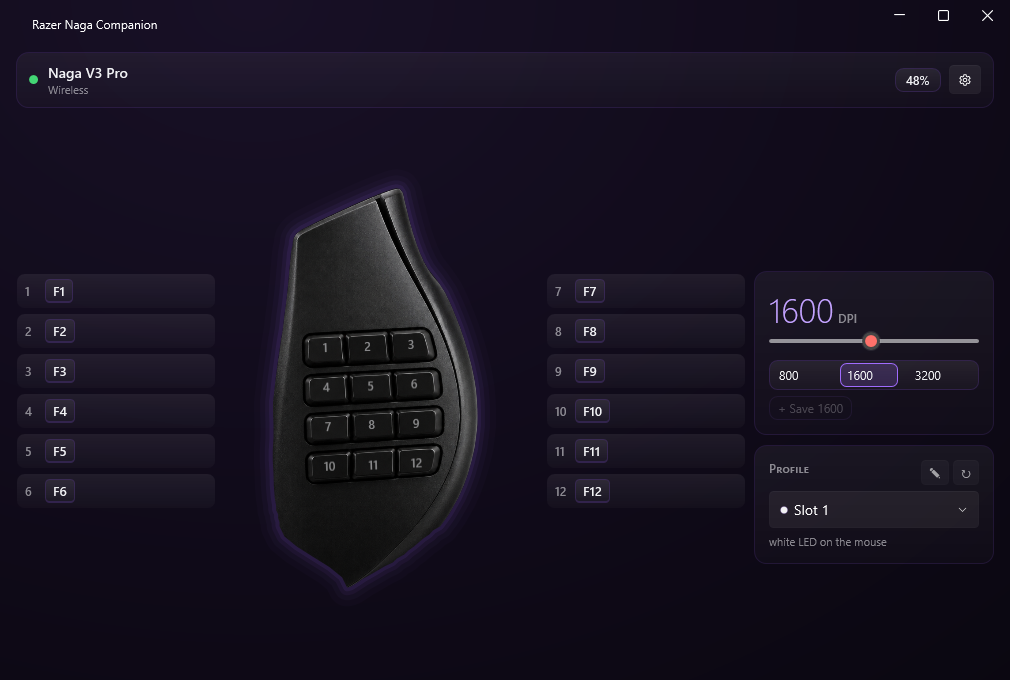
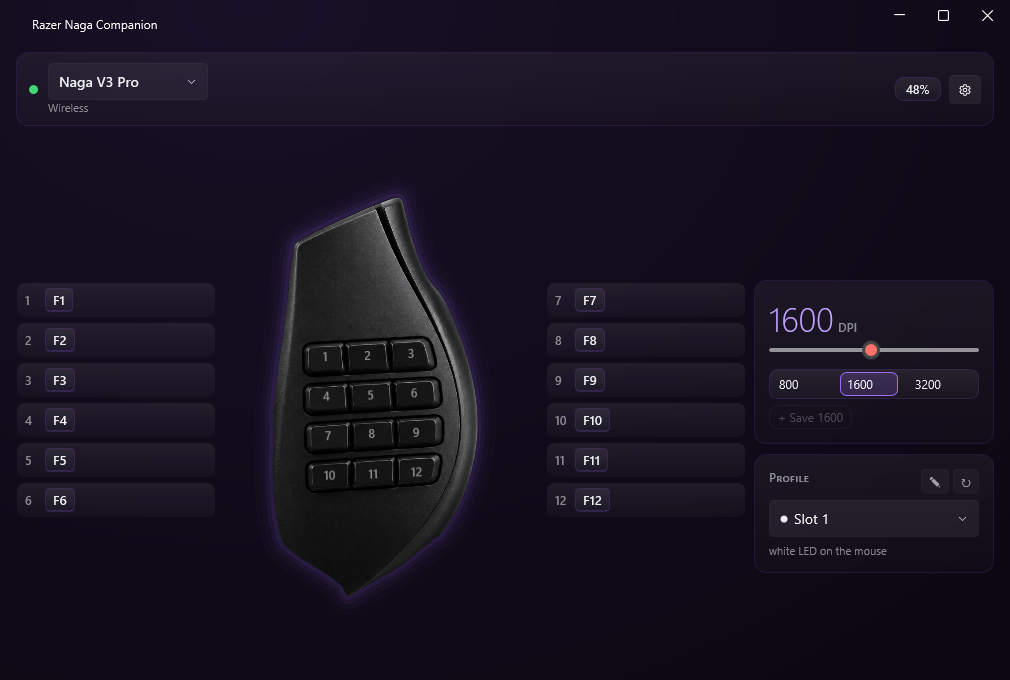
docs: mouse selector, per-device state isolation, regenerated screenshots
README gains the selector and per-mouse profile names; architecture.md gains
the connection layering (IControlCollection seam, ConnectionPolicy,
MouseConnection), the preference-ordered scan, battery-path-only reselect,
connection identity (id within an operation, model across time), the
reachability probe, DeviceScopedState and the firmware's 1-byte uncreated-slot
stub. CLAUDE.md moves the V3 acceptance follow-ups to Shipped as one root
cause and logs create-profile UI as unscheduled.

All five dashboard screenshots regenerated through the UI probe: the header
now renders a mouse ComboBox where the model label was. popup.png re-rendered
byte-identical, so the popup is unaffected.

diff --git a/docs/architecture.md b/docs/architecture.md
@@ -120,13 +120,12 @@ Zero-access `CreateFile` + `HidD_Set/GetFeature`.
   battery/DPI/writes + the tid probe, and `FastReadAsync` for idempotent onboard-memory READS
   (button/profile queries): early-poll doubling ladder 50→400 ms, ready = completed status +
   class/cmd echo — the grid sweep's 12 reads land in ~a second instead of ~5 s.
-- `EnsureConnectedAsync` picks the **live** collection (the one whose
-  `GetMaxFeatureReportLength()==91`, **not** usage page 0xFF00 — none exposed) by trying candidates
-  in `RazerProtocol.ScanPids` order (every supported model's wired PID before any wireless one; V3
-  before V2 within a link), and **verifying each actually answers a battery query** before
-  committing: the dock's wireless receiver stays enumerated when the mouse switches to wired, so
-  first-enumerated alone would lock onto a dead collection (this was the wired/USB-C "no response"
-  bug, `932398e`).
+- Connection selection lives one layer down since 2026-08-19 — `RazerDevice` delegates it to
+  `MouseConnection` (next section). The rule it enforces is unchanged: pick the collection whose
+  `GetMaxFeatureReportLength()==91` (**not** usage page 0xFF00 — none exposed), and **verify each
+  candidate actually answers a battery query** before committing, because the dock's wireless
+  receiver stays enumerated when the mouse switches to wired, so first-enumerated alone would lock
+  onto a dead collection (the wired/USB-C "no response" bug, `932398e`).
 - A read returning null drops the handle so the next poll re-selects (self-heals on plug/unplug).
   Explicit refreshes (`RefreshNowAsync`) additionally call **`Reset()`** so they re-select
   *immediately* — the null-drop self-heal is too slow on a wired plug, where the stale wireless
@@ -137,13 +136,158 @@ Zero-access `CreateFile` + `HidD_Set/GetFeature`.
   `TransactionIdProbeSet`) and cached; every battery/DPI call gates on `tid != 0`, returning
   Absent/null silently until it resolves.
 
+## Connection selection & per-device state (2026-08-19)
+
+Two mice are supported, so "which mouse am I talking to" became a real question. Spec:
+`docs/superpowers/specs/2026-08-19-naga-mouse-selector-design.md`. The whole pass exists because
+acceptance testing found three defects (sticky selection, false "Not applied", a red "Synapse
+action (0x02)") that turned out to be **one** defect: state cached for one mouse survived a change
+of the mouse underneath.
+
+### The layering
+
+Win32 used to sit in the same method as the selection logic, so none of the selection logic could
+be tested. It is now three files, top to bottom:
+
+- **`IControlCollection` / `IControlCollectionSource`** — the ONLY place Win32 appears in the
+  connection path. `CreateFile`, `HidD_SetFeature`, `HidD_GetFeature`, and the HidSharp enumeration
+  that finds 91-byte feature collections; nothing else. `IsOpen` goes false the moment a feature
+  call fails, and every exchange (plus the tid probe loop) checks it — the old code got this from
+  nulling a handle, and losing it would have kept calling into a dead collection.
+  `HidControlCollection` is the real implementation; tests substitute a fake source.
+  **This is what shrank hard rule 6's transport exemption**: it now covers only the two Win32
+  wrappers and the WPF windows, not the selection logic above them. (Product-owner decision,
+  2026-08-19, taking a reviewer's recommendation over the session's advice to defer.)
+- **`ConnectionPolicy.Decide`** — the reselect rule as a pure function of four values, no handles:
+  `KeepLive` / `ProbePreferred` / `FullScan`.
+- **`MouseConnection`** — the state machine: preference order, adoption, rollback, disposing
+  exactly the losing collection, and `ConnectionId`. Protocol stays out of it; the caller supplies
+  a `Verify` delegate that resolves a transaction id on a candidate and confirms it answers.
+
+### Preference-ordered scan
+
+`AppSettings.PreferredMouse` holds a display name (`null` = scan order, and `SupportedMice` already
+puts the V3 first, so "default to the V3" needs no special case). `RazerProtocol.ScanPidsFor(name)`
+builds the order: preferred model wired, preferred model wireless, then the other models' wired
+PIDs, then their wireless ones. **Wired-before-wireless still holds within each model** — a cabled
+mouse must beat a still-plugged receiver that can no longer reach it. With no preference it returns
+`ScanPids` unchanged, byte for byte.
+
+An unknown name is normalized to `null` at the property setter (`RazerProtocol.NormalizeModelName`)
+so a stale or hand-edited `settings.json` value behaves *exactly* like no preference. Without that
+normalization every battery read would detach and roll back chasing a mouse that cannot exist.
+
+### Reselect rides the battery path only
+
+`MouseConnection.EnsureAsync` takes `reselect`, and **only the battery read passes `true`**. So
+re-evaluation happens on moments the app already has (the poll, the device-change refresh) — no new
+timer, hard rule 1 intact. When it is true and the live handle is already the preferred model, or
+no preference is set, it returns immediately at zero cost; otherwise it probes *only* the preferred
+model and keeps the current connection if that model does not answer. A sleeping preference must
+never cost the user the mouse that is actually awake.
+
+Adoption detaches the live collection from the field before probing, and restores it in a
+`finally` — an exception or a cancellation between the detach and the adoption would otherwise
+leave the app with no connection **and** leak the detached handle.
+
+Every other call (button, DPI, profile) passes `reselect: false`, so **no other call may reselect a
+live handle**. They can still *reconnect a dropped one* — that is existing, wanted self-healing —
+and that residual is precisely why connection identity is needed.
+
+### Connection identity: id within an operation, model across time
+
+`ConnectionId` rises on every adoption, including a reconnect to the same mouse. It exists because
+an unannounced reconnect is invisible otherwise: `DeviceState.Model` is published only by a battery
+read, `BatteryMonitor` keeps reporting the previous model for three consecutive failed reads, and a
+multi-step operation releases the read lock between steps.
+
+The counter-intuitive part, which a review round forced (spec §4.10 points 3-4) — **the two
+identity questions take different answers**:
+
+- **Within one operation** — did the mouse change under this in-flight read, this write's read-back,
+  this grid sweep — compare the **id**. Something moved underneath and the outcome is not
+  attributable. `RefreshProfileAsync`, `ReadGridAsync` and the DPI read all capture an id and
+  discard results whose id no longer matches.
+- **Across time** — is this cached slot, this profile list, this undo snapshot still about the mouse
+  in front of me — compare the **connected MODEL** (`MouseConnection.Model`, deliberately *not*
+  cleared by `Close()` so the question still has an answer after a dropped handle).
+
+Comparing ids across time would red a landed write whenever the user plugs in anything at all:
+every explicit refresh calls `Reset()` first, so any `WM_DEVICECHANGE` — a headset, a hub, a
+resume — bumps the id while the mouse never changed. A same-model reconnect leaves every cached
+value still true; only a hop to the *other* mouse invalidates them.
+
+Two consequences in the code:
+
+- **The button write is atomic.** `BatteryMonitor.WriteButtonVerifiedAsync` reads the active slot,
+  writes, and reads back **inside one `_readLock` acquisition**. Split across three (as it was
+  before), a reselect could land between resolve and write and put one mouse's slot number onto the
+  other — clearing a cache cannot undo that, the slot is already a local. The slot is always read
+  here, never taken from the caller's cache, which forces any pending reconnect to happen *before* a
+  slot is committed to. A failed slot read fails the write outright.
+- **Recovery republishes identity before reloading.** `AppHost.RecoverFromReconnectAsync` runs a
+  lock-waiting battery refresh FIRST so `State.Model` names the mouse now connected, and only then
+  reseeds. The other order files the new mouse's DPI, profiles and profile names under the old
+  model. It is re-entrancy-guarded and coalesces to at most one follow-up pass.
+
+### Reachability probe (the selector's list)
+
+`DiscoverReachableAsync` tries each supported model's PIDs in turn, collects the display names that
+answered a battery query, then re-runs normal selection so the connection ends on the
+preferred/current mouse. It **republishes `State` before returning** (one battery read processed
+inside the same lock acquisition), because that closing reconnect can land on a different mouse than
+`State` names, and `State.Model` is what keys the scoped cache and the profile-name map.
+
+A HID enumeration cannot replace this: the receiver stays enumerated while the mouse is off, so an
+enumeration-built list would offer a sleeping mouse. The user chose accuracy over the ~1 s cost.
+Called on dashboard open and dashboard refresh only — **never polled**.
+
+`RefreshNowWaitingAsync` is `RefreshNowAsync` that *waits* for the read lock instead of skipping
+when busy. Skip-when-busy is right for a timer tick and wrong behind a user's mouse pick, which
+would otherwise report a perfectly reachable mouse as unreachable because a sweep happened to be in
+flight. Both it and discovery are wrapped in `Task.Run` at the call site — an uncontended
+`WaitAsync` completes synchronously, which would run enumeration and `CreateFile` on the UI thread.
+
+### `DeviceScopedState` — the cache that clears itself
+
+`Monitoring/DeviceScopedState.cs` holds everything the app caches about ONE mouse: the last active
+slot, the created-slot inventory, and `SeededModel` (the model the cache was seeded under).
+`Observe(model)` is fed every published model name including `null`; it returns true when the model
+changed, and clears the cache as it does. `AppHost` then supersedes the grid sweep, resets the
+dashboard's profile inventory / DPI reading / chips / undo snapshots, and — if the dashboard is
+open — reseeds probe-free.
+
+The defect it fixes, measured on the V3 Pro (read-only spike, 2026-08-19; the V3 ships with
+`capacity=5 created=[1] active=1`):
+
+| Slot read | Reply |
+| --- | --- |
+| 0 (direct) | `cat=0x02 len=2 [00 45]` |
+| 1 (created) | `cat=0x02 len=2 [00 45]` |
+| 2, 3, 4, 5 (not created) | `cat=0x02 len=1 [00]` |
+
+**The firmware answers an uncreated-slot read with a 1-byte stub rather than an error**, and that
+one stub caused both remaining defects. The user's V2 sits on slot 3; after the connection flipped
+to the V3 mid-session, `_lastActive` still said 3, the V3 has no slot 3, so the write's read-back
+could never match (false "Not applied") and the 1-byte reply fell through
+`CalloutViewModel.DisplayRaw`'s exactly-2-bytes decode into a red "Synapse action (0x02)".
+`DisplayRaw` now renders `0x02` with **fewer than 2** data bytes as a plain "Not set" with
+`Failed` false — strictly fewer: a longer unmodelled `0x02` keeps the "Synapse action" label,
+because calling an assigned button empty invites the user to overwrite it.
+
+Two hypotheses were killed by measurement and are recorded so they are not re-tried: button reads
+are not flaky (36/36 through the production path, median 61 ms), and the verify read does not race
+the commit (20/20 first reads returned the freshly written value).
+
 ## Monitoring (`Monitoring/BatteryMonitor.cs`)
 
 Poll timer + arming state machine; takes `IRazerDevice`; battery poll + DPI/button/profile
 pass-throughs serialize on one `_readLock` (poll skips if busy, the pass-throughs block). The poll
 itself does battery I/O only. `RefreshNowAsync` (manual button, wake, device-change) calls
 `_device.Reset()` first to re-select the active interface; the frequent background poll reuses the
-handle for efficiency.
+handle for efficiency. Since 2026-08-19 it also owns `WriteButtonVerifiedAsync` (the atomic button
+write), `DiscoverMiceAsync`, `RefreshNowWaitingAsync` and the `PreferredMouse` / `ConnectionId` /
+`ConnectedModel` pass-throughs — see "Connection selection & per-device state" above.
 
 ## Button remapping model (Phase B 2026-07-11, reworked v2.3 2026-07-19)
 
@@ -158,9 +302,12 @@ Phase B never-write-user-slots rule once byte-for-byte reads shipped — button-
 - The active slot is readable AND settable (`0x05/0x84`/`0x05/0x04` — the Profile card's
   ↻/dropdown); the mouse's bottom button (LED colour = slot: white/red/green/blue/cyan) remains
   the hardware fallback.
-- Write path is `AppHost.WriteBindingAsync` → `WriteVerifiedAsync` (per-chip instant apply):
-  resolve active slot → write → read-back verify; "Default" writes the factory action
-  (deterministic, the repair path).
+- Write path is `AppHost.WriteBindingAsync` → `BatteryMonitor.WriteButtonVerifiedAsync` (per-chip
+  instant apply): read active slot → write → read-back verify, **all inside one lock acquisition**
+  since 2026-08-19 so a reselect cannot land mid-write; "Default" writes the factory action
+  (deterministic, the repair path). The result also reports the connection id and model it ran
+  under, and `AppHost` treats a mid-write adoption or a pre-lock hop onto the other mouse as stale
+  rather than as a failed write.
 - Nothing is persisted app-side; the old adopt/seed machinery and the settings `ButtonBindings`
   table are retired (properties kept for JSON back-compat).
 
@@ -169,10 +316,14 @@ Phase B never-write-user-slots rule once byte-for-byte reads shipped — button-
 `AppSettings` + `ISettingsStore`/`JsonSettingsStore`. JSON at `%APPDATA%\NagaBatteryTray\settings.json`
 (Roaming — **not** the install dir under `%LOCALAPPDATA%`); holds cadences, low-battery
 threshold/notify, `SetReadDelayMs` (SET→GET wait, default 400), the cached transaction id,
-app-side DPI presets, and app-side profile-slot names (`ProfileNames`, keyed by slot number — the
-firmware stores no names, so a rename is a dashboard label only). `ButtonBindings`/`OnboardSlot`
-survive as properties for JSON back-compat but are no longer read or written (v2.3 — the firmware
-holds bindings, the grid reads hardware). Corrupt file → silently resets to defaults.
+app-side DPI presets, `PreferredMouse` (which mouse to talk to; `null` = scan order, V3 first), and
+app-side profile-slot names. The firmware stores no names, so a rename is a dashboard label only.
+Names are keyed **per mouse** since 2026-08-19 (`ProfileNamesByMouse`, model display name → slot →
+name) — the old slot-only `ProfileNames` made the V2's "World of Warcraft" label the V3's slot 1
+too. `JsonSettingsStore` runs a one-time migration at load: non-empty `ProfileNames` with an empty
+`ProfileNamesByMouse` moves the legacy names under `"Naga V2 Pro"`, the only mouse that could have
+written them. `ProfileNames`/`ButtonBindings`/`OnboardSlot` survive as properties for JSON
+back-compat but are no longer read or written. Corrupt file → silently resets to defaults.
 
 ## UI shell (`Ui/`)
 
@@ -230,6 +381,18 @@ Replaces the deleted `SettingsWindow`/`SettingsViewModel`/`ButtonRowViewModel`.
 - `DashboardWindow` — a WPF-UI `FluentWindow` shell; releases on close (the monitor's
   `StateChanged` subscription is removed and the field nulled, same release-on-close discipline
   the old Settings window had).
+- **Header mouse selector** (2026-08-19) — the model-name `TextBlock` is now a `ComboBox` over
+  `DashboardViewModel.Mice`, filled by the reachability probe on open/refresh. It is enabled by
+  `CanPickMouse` (`Mice.Count > 1`), **not** by whether the probe has landed: with one entry it
+  reads exactly like the label it replaced, and gating on the probe greyed the app's primary
+  identity element on every open. A probe that finds nothing keeps the connected model in the box
+  rather than emptying it. Two-way binding is guarded like the profile dropdown — programmatic
+  syncs run under `_syncingMouse`, so only a USER pick raises `MouseSelectRequested` → save
+  `PreferredMouse` → lock-waiting refresh → reload battery, DPI, profile card and grid. A failed
+  pick snaps back via `ResyncMouse`. `ApplyState` also resyncs, so an unannounced hop cannot leave
+  the box naming one mouse over another mouse's battery and profile card. Profile-slot names are
+  read and written per connected model (`ProfileNamesByMouse`); an unknown model gets its own empty
+  map rather than sharing another mouse's.
 - `MouseStageView` — the stage is the user's **product render** of the thumb panel
   (`Assets/naga-thumb.png`, a csproj `<Resource>`; grayscale blank-key AI edit of the real photo,
   decoded at `DecodePixelWidth=560` ≈ 2 MB only while the dashboard is open) clipped to

diff --git a/CLAUDE.md b/CLAUDE.md
@@ -33,8 +33,10 @@ reference is `docs/architecture.md`; per-feature design history is `docs/superpo
 6. **TDD**; tests cover logic layers through the `IRazerDevice` seam (`Fakes/FakeRazerDevice`);
    WPF windows/tray/HID transport are exercised by the installed build and the probes — the two
    deliberate exceptions are `DpiPillInteractionTests` (always-on real-window regression) and the
-   gated screenshot probe. Tests reach `internal` via `InternalsVisibleTo.cs` — don't tighten
-   visibility or drop that file.
+   gated screenshot probe. Since 2026-08-19 the transport exemption covers **only the two Win32
+   wrappers** (`IControlCollection`/`IControlCollectionSource`) and the WPF windows — connection
+   selection above that seam is ordinary tested code (`docs/architecture.md`). Tests reach
+   `internal` via `InternalsVisibleTo.cs` — don't tighten visibility or drop that file.
 
 ## Commands (user-local .NET SDK — not on PATH)
 
@@ -68,8 +70,8 @@ reference is `docs/architecture.md`; per-feature design history is `docs/superpo
 
 | Path | What lives there |
 | --- | --- |
-| `src/NagaBatteryTray/Hid/` | Wire protocol (`RazerProtocol`), button model (`ButtonBinding`), transport (`RazerDevice` behind `IRazerDevice`) |
-| `src/NagaBatteryTray/Monitoring/` | `BatteryMonitor` — the one poll timer + device-call serialization |
+| `src/NagaBatteryTray/Hid/` | Wire protocol (`RazerProtocol`), button model (`ButtonBinding`), transport (`RazerDevice` behind `IRazerDevice`), connection selection (`MouseConnection` + `ConnectionPolicy` over the `IControlCollection` Win32 seam) |
+| `src/NagaBatteryTray/Monitoring/` | `BatteryMonitor` — the one poll timer + device-call serialization; `DeviceScopedState` — the per-mouse cache |
 | `src/NagaBatteryTray/Settings/` | `AppSettings` + JSON store (`%APPDATA%\NagaBatteryTray\settings.json`) |
 | `src/NagaBatteryTray/Ui/` | Tray icon renderer/host, popup, device-change watcher, toasts, `AppHost` lifecycle |
 | `src/NagaBatteryTray/Ui/Dashboard/` | The dashboard: mouse stage + remap chips, DPI card, Profile card, settings overlay |
@@ -102,32 +104,26 @@ Shipped (spec links = the full story):
   button-remap / profile protocol parity with the `--probe*` suite, device layer now
   auto-detects either model (2026-08-19,
   `specs/2026-08-19-naga-v3pro-dual-support-design.md`)
+- Mouse selector + per-device state isolation — closes the three V3 acceptance follow-ups, which
+  investigation showed were **one root cause**: state cached for one mouse outliving the mouse
+  underneath it. Ships a dashboard header mouse selector (defaults to the V3, choice persisted),
+  preference-ordered scanning with reselect on the battery path only, a `MouseConnection` +
+  `ConnectionPolicy` state machine over a new `IControlCollection` Win32 seam, connection identity
+  (id within an operation, model across time), an atomic button write, a per-mouse state cache, and
+  per-mouse profile names (2026-08-19, `specs/2026-08-19-naga-mouse-selector-design.md`)
 
 Next:
 
-- [ ] **V3 acceptance follow-ups — FIRST, ahead of DPI stages** (user, 2026-08-19; both found in
-  acceptance testing of the dual-support merge, neither is a regression it introduced). Two
-  device-behaviour defects, measured on real hardware:
-  - **Sticky device selection.** `EnsureConnectedAsync` short-circuits on a live handle, so once
-    it latches a mouse it never re-checks whether a preferred one became reachable. Pulling the
-    V3's cable made it re-scan while the V3's wireless link was still coming up; the V2 answered
-    first and it stayed there indefinitely. A fresh start picks correctly. **User wants a
-    mouse-selector dropdown in the dashboard header, defaulting to the V3**, with automatic
-    re-evaluation underneath. Needs its own design round (selector + persisted choice).
-  - **"Not applied" on writes that actually landed.** `AppHost.WriteVerifiedAsync` writes, then
-    reads back and demands an exact match; the chip goes red on any mismatch. Reads are NOT the
-    cause — 36/36 button reads through the production path succeeded, median 61 ms, on V3
-    wireless. Leading unproven hypothesis: the verify read races the device's commit and returns
-    the stale value. Confirming it needs a write-then-immediately-read probe.
-  - Minor, same pass: an unset V3 button reads as category `0x02` with ONE data byte, and
-    `CalloutViewModel.DisplayRaw` only decodes `0x02` + exactly 2 bytes, so it renders as a red
-    "Synapse action (0x02)". Cosmetic, and invisible once buttons are set.
 - [ ] **DPI stages + polling rate** — onboard 5-stage table (+ stage up/down), polling-rate
   get/set (openrazer-validated, write-on-action only). Carries two deferred riders: the preset
   row likely becomes the onboard stage table (user, 2026-07-17), and the right-rail relayout
   happens when the polling-rate box joins it (user, 2026-07-20).
 - [ ] **Lighting** (last) — thumb-grid / scroll-wheel zone effects + brightness, theme-sync
   candidate; openrazer class 0x03/0x0F.
+- [ ] **Create-profile UI** — unscheduled, no owner date. The V3 Pro ships with a single onboard
+  slot created, so the Profile card can only ever offer that one; the create/delete commands
+  (class `0x05` `0x02`/`0x03`) are already in `RazerProtocol` but nothing calls them. Logged out of
+  the mouse-selector pass as an explicit non-goal (spec §3).
 
 ## Workflow & conventions
 

diff --git a/README.md b/README.md
@@ -14,7 +14,7 @@
 
 <br/>
 
-<img src="docs/images/dashboard.png" width="85%" alt="The dashboard: instant-apply remap chips around the thumb grid, a DPI card with segmented presets and click-to-type readout, and the onboard-profile card (Ultraviolet theme)"/>
+<img src="docs/images/dashboard.png" width="85%" alt="The dashboard: a mouse selector in the header, instant-apply remap chips around the thumb grid, a DPI card with segmented presets and click-to-type readout, and the onboard-profile card (Ultraviolet theme)"/>
 
 </div>
 
@@ -32,7 +32,8 @@ directly over HID with no Synapse, no driver, and no admin rights.
 > verified.
 
 Supported mice: Razer Naga V2 Pro (wired 0x00A7 / wireless 0x00A8) and Razer Naga V3 Pro
-(wired 0x00E7 / wireless 0x00E8) — auto-detected, model name shown in the dashboard.
+(wired 0x00E7 / wireless 0x00E8) — auto-detected. Own both? The dashboard header lists whichever
+are actually awake and lets you pick; the app remembers the choice and returns to it on its own.
 
 ---
 
@@ -59,9 +60,15 @@ Supported mice: Razer Naga V2 Pro (wired 0x00A7 / wireless 0x00A8) and Razer Nag
   onboard slot back from the hardware. Bindings survive power-cycles and reboots with **no
   software running at all**.
 - 🗂 **Onboard profile switching** — see and switch the mouse's active onboard slot (1–5)
-  from the dashboard, with each slot's LED colour and your own rename labels. *(The
-  active-slot read/set protocol isn't in openrazer or any public reference — it was found
-  by this project's own hardware probe sweep.)*
+  from the dashboard, with each slot's LED colour and your own rename labels (kept per
+  mouse, so your V2's names never label your V3's slots). *(The active-slot read/set
+  protocol isn't in openrazer or any public reference — it was found by this project's own
+  hardware probe sweep.)*
+- 🖲 **Two mice, one app** — a selector in the dashboard header lists every supported mouse
+  that's actually awake and lets you choose which one the app drives. The pick sticks, and
+  if that mouse drops off and comes back the app returns to it by itself, on the battery
+  poll it already runs. Nothing one mouse knows — active slot, DPI, profile names, button
+  chips — is ever shown or written for the other.
 - 🔔 **Low-battery toast** — a native Windows notification when you drop to/below your
   threshold (default 15%) while on battery.
 - ⚡ **Charging aware** — polls faster while charging (15 s vs 60 s), suppresses nagging
@@ -203,7 +210,10 @@ flowchart LR
   `CreateFile` + `HidD_SetFeature` / `HidD_GetFeature` (the feature report lives on the
   OS-owned mouse collection, which a normal HID stream can't open), probes transaction
   ids and caches the one that works, picks whichever interface is live (wired or wireless),
-  and reads/writes the active DPI.
+  and reads/writes the active DPI. Which *mouse* it picks is decided one layer down, by
+  `MouseConnection` + `ConnectionPolicy` over the `IControlCollection` Win32 seam: your
+  preferred model first, wired before wireless, and only the battery read is ever allowed to
+  switch a live connection to a different mouse.
 - **`Monitoring/BatteryMonitor.cs`** — polling timer + state machine (online/unknown,
   low-battery edge logic, staleness → unknown); also the DPI and button read/set
   pass-throughs (everything shares one lock — never two concurrent device exchanges).
@@ -254,6 +264,11 @@ Full design and implementation notes live in [`docs/superpowers/`](docs/superpow
 - [x] **Razer Naga V3 Pro support**: probed the V3 Pro on real hardware with the existing
       `--probe*` suite, confirmed full protocol parity (battery, DPI, button remap, profiles),
       and the device layer now auto-detects either model.
+- [x] **Mouse selector + per-device state isolation**: pick which mouse the app drives from the
+      dashboard header (the list only offers mice that are actually awake), the choice persists,
+      and the app finds its way back to it on its own. Underneath, nothing cached for one mouse
+      can leak onto the other — which is what removed the "Not applied" chips and the red
+      "Synapse action (0x02)" seen in V3 Pro acceptance testing.
 - [ ] **DPI stages + polling rate**: program the onboard 5-stage DPI table (+ stage
       up/down) and the polling rate — the preset row likely becomes the onboard stage table.
 - [ ] **Lighting**: thumb-grid / scroll-wheel zone effects + brightness, theme-sync
